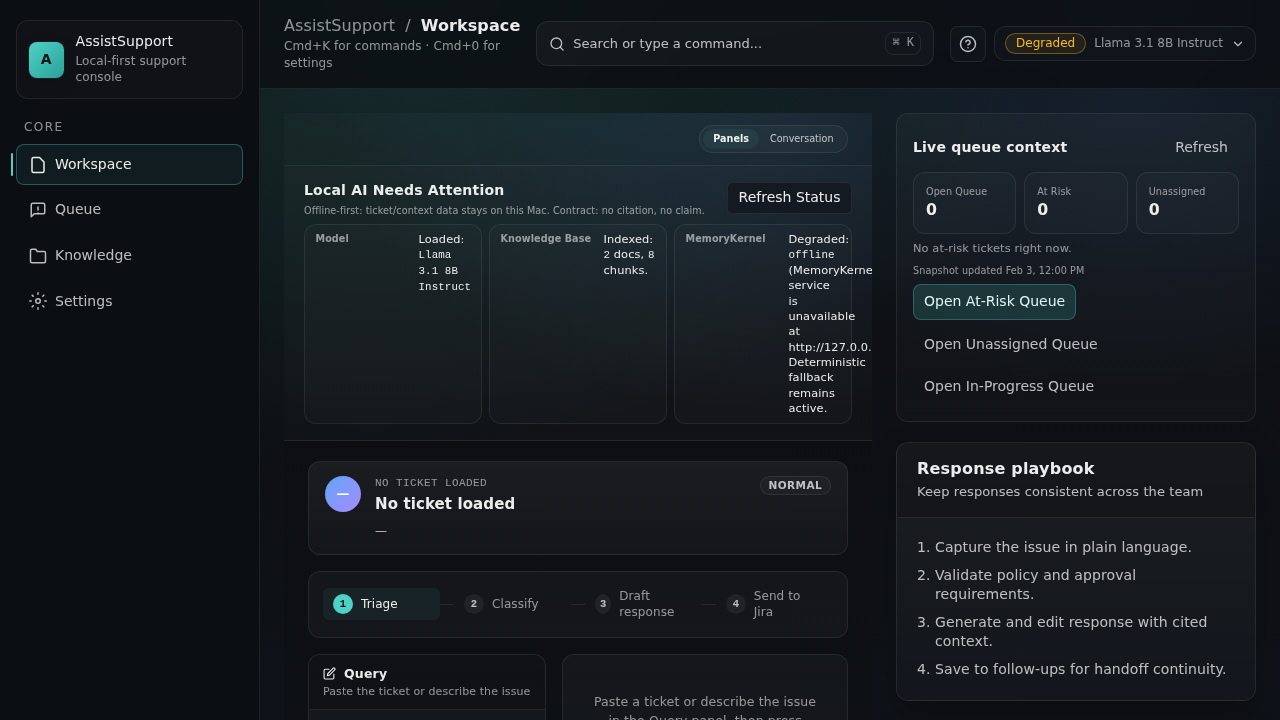
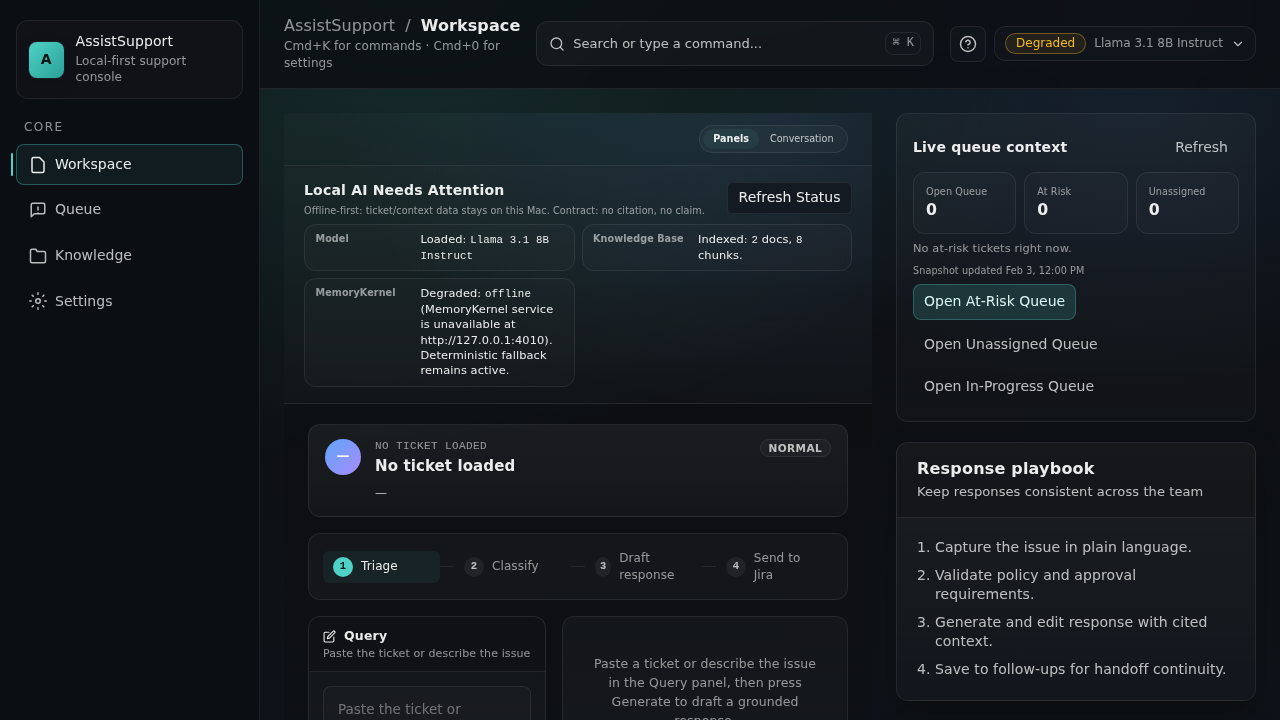
fix: improve mobile readiness card layout

diff --git a/src/components/Draft/AiReadinessBanner.mobile.css b/src/components/Draft/AiReadinessBanner.mobile.css
@@ -1,0 +1,45 @@
+.ai-readiness-check-value {
+  min-width: 0;
+  overflow-wrap: anywhere;
+}
+
+.ai-readiness-mono {
+  overflow-wrap: anywhere;
+}
+
+.ai-readiness-checklist {
+  grid-template-columns: repeat(auto-fit, minmax(min(100%, 16rem), 1fr));
+}
+
+.ai-readiness-check {
+  grid-template-columns: minmax(7rem, auto) minmax(0, 1fr);
+}
+
+@media (max-width: 899px) {
+  .ai-readiness-header {
+    align-items: stretch;
+  }
+}
+
+@media (max-width: 639px) {
+  .app-shell-revamp .ai-readiness-banner {
+    padding: var(--as-space-4);
+  }
+
+  .ai-readiness-header {
+    flex-direction: column;
+  }
+
+  .ai-readiness-actions {
+    align-self: stretch;
+  }
+
+  .ai-readiness-actions .btn {
+    width: 100%;
+    justify-content: center;
+  }
+
+  .ai-readiness-check {
+    grid-template-columns: minmax(0, 1fr);
+  }
+}

diff --git a/tests/ui/app-shell-responsive.spec.ts b/tests/ui/app-shell-responsive.spec.ts
@@ -27,6 +27,32 @@ async function expectDocumentScrollIsContained(page: Page) {
   expect(metrics.settingsTabCanScroll).toBe(true);
 }
 
+async function expectAiReadinessCardsAreContained(page: Page) {
+  const metrics = await page.evaluate(() => {
+    const tolerance = 1;
+    const checks = Array.from(
+      document.querySelectorAll<HTMLElement>(".ai-readiness-check"),
+    );
+    return checks.map((check) => {
+      const rect = check.getBoundingClientRect();
+      return {
+        width: rect.width,
+        scrollWidth: check.scrollWidth,
+        clientWidth: check.clientWidth,
+        overflows: check.scrollWidth > check.clientWidth + tolerance,
+        clippedRight: rect.right > window.innerWidth + tolerance,
+      };
+    });
+  });
+
+  expect(metrics).toHaveLength(3);
+  for (const metric of metrics) {
+    expect(metric.width).toBeGreaterThan(280);
+    expect(metric.overflows).toBe(false);
+    expect(metric.clippedRight).toBe(false);
+  }
+}
+
 async function navigateToTab(page: Page, label: "Knowledge" | "Settings") {
   const mobileRevampNav = page.locator(
     '.as-shell__mobileNav[aria-label="Compact navigation"]',
@@ -100,6 +126,9 @@ test("@smoke @responsive mobile shell keeps tab-bar navigation usable across tab
 
   await expect(page.locator(".app")).toBeVisible({ timeout: 20_000 });
   await expect(page.getByText("Application Error")).toHaveCount(0);
+  await expectAiReadinessCardsAreContained(page);
+  await expectNoHorizontalOverflow(page);
+
   const mobileNav = await navigateToTab(page, "Knowledge");
   expect(mobileNav).not.toBeNull();
   await expect(page.locator(".as-shell__pageTitle")).toHaveText(

diff --git a/src/components/Draft/DraftTab.tsx b/src/components/Draft/DraftTab.tsx
@@ -68,6 +68,7 @@ import type {
   WorkspacePersonalization,
 } from "../../types/workspace";
 import "./DraftTab.css";
+import "./AiReadinessBanner.mobile.css";
 
 export interface DraftTabHandle {
   generate: () => void;